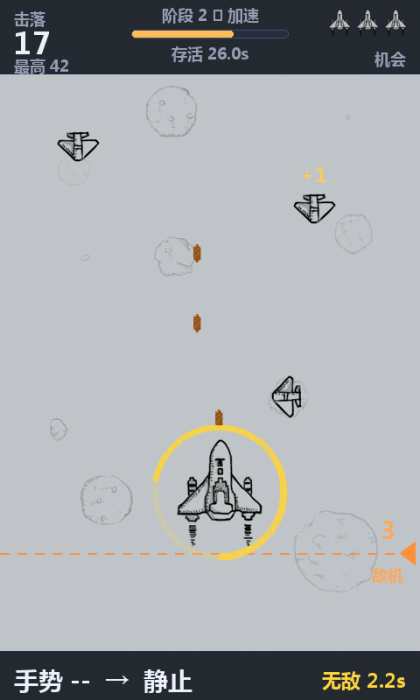
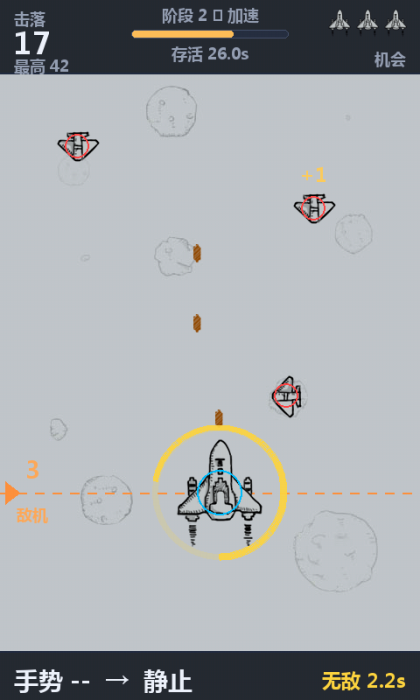
feat: draw the circular hit boxes and aim side enemies at the player's row
- outline the player hit box in cyan and every enemy hit box in red
- spawn side-enemy warnings on the row the player occupies instead of a
  random height (still clamped to the play area)
- update the staged screenshot, the tests and the documentation

diff --git a/plane_game.py b/plane_game.py
@@ -15,6 +15,8 @@ Controls
 * ``Xx1111`` up, ``X00000`` down, ``P10000`` left, ``N10000`` right;
 * on the game over screen: click 重来 or press space to return to the start
   screen, or hold ``X11111`` for 0.7 s to restart directly;
+* the circular hit boxes are outlined on screen: the player's in cyan, the
+  enemies' in red;
 * arrow keys still move the plane as a keyboard fallback, space starts a round
   when no usable camera is present (keyboard mode);
 * ESC quits.
@@ -54,6 +56,10 @@ PANEL = (14, 18, 30)
 PANEL_BORDER = (52, 64, 92)
 BUTTON = (70, 165, 118)
 BUTTON_HOVER = (92, 204, 144)
+
+#: Colours of the circular hit boxes drawn over the planes.
+HITBOX_PLAYER = (0, 190, 255)
+HITBOX_ENEMY = (255, 70, 70)
 
 CAMERA_WINDOW = "Camera - Plane Game"
 
@@ -262,8 +268,22 @@ class PlaneScene(object):
                             color, (popup.x, popup.y - 24 * progress),
                             255 * (1.0 - progress))
 
+        self._draw_hitboxes(canvas, game)
+
         if game.hit_flash > 0.0:
             self._draw_border(canvas, DANGER, game.hit_flash / 0.5)
+
+    def _draw_hitboxes(self, canvas, game):
+        """Outline the circular hit boxes of the player and of every enemy."""
+        for enemy in game.enemies:
+            center = (int(round(enemy.center[0])),
+                      int(round(enemy.center[1])))
+            pygame.draw.circle(canvas, HITBOX_ENEMY, center,
+                               int(round(enemy.radius)), 2)
+        center = (int(round(game.player.center[0])),
+                  int(round(game.player.center[1])))
+        pygame.draw.circle(canvas, HITBOX_PLAYER, center,
+                           int(round(game.player.radius)), 2)
 
     def _draw_player(self, canvas, game):
         player = game.player

diff --git a/game_core.py b/game_core.py
@@ -30,7 +30,8 @@ Rules implemented here (see ``工作汇报.md`` for the full description):
 
 * the new side enemies fly in horizontally at a very low speed; their entry
   point is announced 3 s in advance.  A side enemy enters from the right when
-  the player is near the left edge at spawn time, and from the left otherwise.
+  the player is near the left edge at spawn time, and from the left otherwise;
+  its entry row is the row the player occupies at spawn time.
 """
 
 from __future__ import absolute_import
@@ -721,12 +722,16 @@ class PlaneGame(object):
 
         The side is chosen from the player position *at spawn time*: a player
         near the left edge is attacked from the right, otherwise from the left.
+        The announced row is the row the player occupies at that moment, so the
+        horizontal enemy flies in at the player's height instead of a random
+        one; the row stays fixed during the countdown (the dashed line marks
+        exactly where it will enter) and is clamped to the play area.
         """
         player_near_left = self.player.center[0] < self.width / 2.0
         side = "R" if player_near_left else "L"
-        y = self.rng.uniform(
-            self.play_top + SIDE_ENTRY_MARGIN,
-            self.play_bottom - ENEMY_H - SIDE_ENTRY_MARGIN)
+        y = self.player.center[1] - ENEMY_H / 2.0
+        y = max(self.play_top + SIDE_ENTRY_MARGIN,
+                min(y, self.play_bottom - ENEMY_H - SIDE_ENTRY_MARGIN))
         warning = SideWarning(side, y)
         self.warnings.append(warning)
         self.events.append({"type": "warning", "side": side, "y": y})

diff --git a/test_game_logic.py b/test_game_logic.py
@@ -416,6 +416,10 @@ def test_side_enemy():
         check("the entry row is inside the play area",
               PLAY_TOP <= entry_y <= PLAY_BOTTOM - ENEMY_H,
               "{:.1f}".format(entry_y))
+        check("the entry row aims at the player's row",
+              abs(entry_y - (game.player.center[1] - ENEMY_H / 2.0)) < 1e-6,
+              "{:.1f} vs {:.1f}".format(
+                  entry_y, game.player.center[1] - ENEMY_H / 2.0))
 
         advance(game, 1.0, None)
         check("countdown shows 2", game.warnings[0].remaining == 2,
@@ -443,11 +447,18 @@ def test_side_enemy():
 
         # Player near the right edge -> the side enemy enters from the left.
         game.player.x = game.width - game.player.w
+        game.player.y = 260.0
         game.side_timer = 0.01
         game.update(0.02, None)
         check("a player near the right is attacked from the left",
               game.warnings and game.warnings[-1].side == "L",
               game.warnings[-1].side if game.warnings else "no warning")
+        check("the row follows the player's current position",
+              abs(game.warnings[-1].y -
+                  (game.player.center[1] - ENEMY_H / 2.0)) < 1e-6,
+              "{:.1f} vs {:.1f}".format(
+                  game.warnings[-1].y,
+                  game.player.center[1] - ENEMY_H / 2.0))
 
         # The side enemy crosses the screen at a constant height and leaves.
         game.warnings = []

diff --git a/capture_game.py b/capture_game.py
@@ -84,7 +84,11 @@ def stage_battlefield(game):
         Enemy("top", 330.0, 210.0, vy=190.0),
         Enemy("side", 300.0, 430.0, vx=-SIDE_ENEMY_SPEED),
     ]
-    game.warnings = [SideWarning("R", 610.0, 2.2)]
+    # The warning is staged exactly like the spawn rule: it aims at the row the
+    # player currently occupies, and it enters from the side away from it.
+    warning_side = "R" if game.player.center[0] < game.width / 2.0 else "L"
+    game.warnings = [SideWarning(warning_side,
+                                 game.player.center[1] - ENEMY_H / 2.0, 2.2)]
     game.bullets = [Bullet(221.0, 300.0), Bullet(221.0, 380.0)]
     game.popups = [Popup(358.0, 200.0, "+1", "score")]
     game.hit_flash = 0.0

diff --git a/README.md b/README.md
@@ -42,7 +42,8 @@
 - 3 次机会用尽即结束，结算界面显示本局击落数、历史最高分和**重来**按钮。
   重来可以点击按钮 / 按空格回到开始界面，也可以直接保持 `X11111` 0.7 秒再开一局。
 - 碰撞箱为圆形且缩小：玩家飞机的碰撞圆半径 25.5 px（机翼总宽 102 px，圆只覆盖
-  一半机翼），敌机半径 14.25 px。
+  一半机翼），敌机半径 14.25 px。碰撞箱的圆形轮廓直接绘制在画面上：玩家**青色**、
+  敌机**红色**，画出的就是实际参与判定的范围。
 
 ### 难度模型
 
@@ -55,8 +56,9 @@
 | C | 侧边敌机生成间隔 | 8 s（±1.5 s） | 8 → 6 s（±1.0 s） | 6 s（±1.0 s） |
 
 每架敌机的速度都独立随机赋值。**侧边敌机**是新机制：每隔 C 秒安排一架横向飞行的
-敌机，速度很低（55 px/s）；进入画面前 **3 秒**在画面边缘用箭头、倒计时数字和横向
-虚线标出它驶入的位置和高度；若生成时刻玩家飞机靠近画面左侧，它从**右侧**驶入，
+敌机，速度很低（55 px/s）；它的**驶入高度对准生成时刻玩家飞机所在的行**（不再随机，
+倒计时期间保持不变）；进入画面前 **3 秒**在画面边缘用箭头、倒计时数字和横向虚线
+标出它驶入的位置和高度；若生成时刻玩家飞机靠近画面左侧，它从**右侧**驶入，
 否则从左侧驶入。
 
 ![结算界面](docs/screenshot_over.png)
